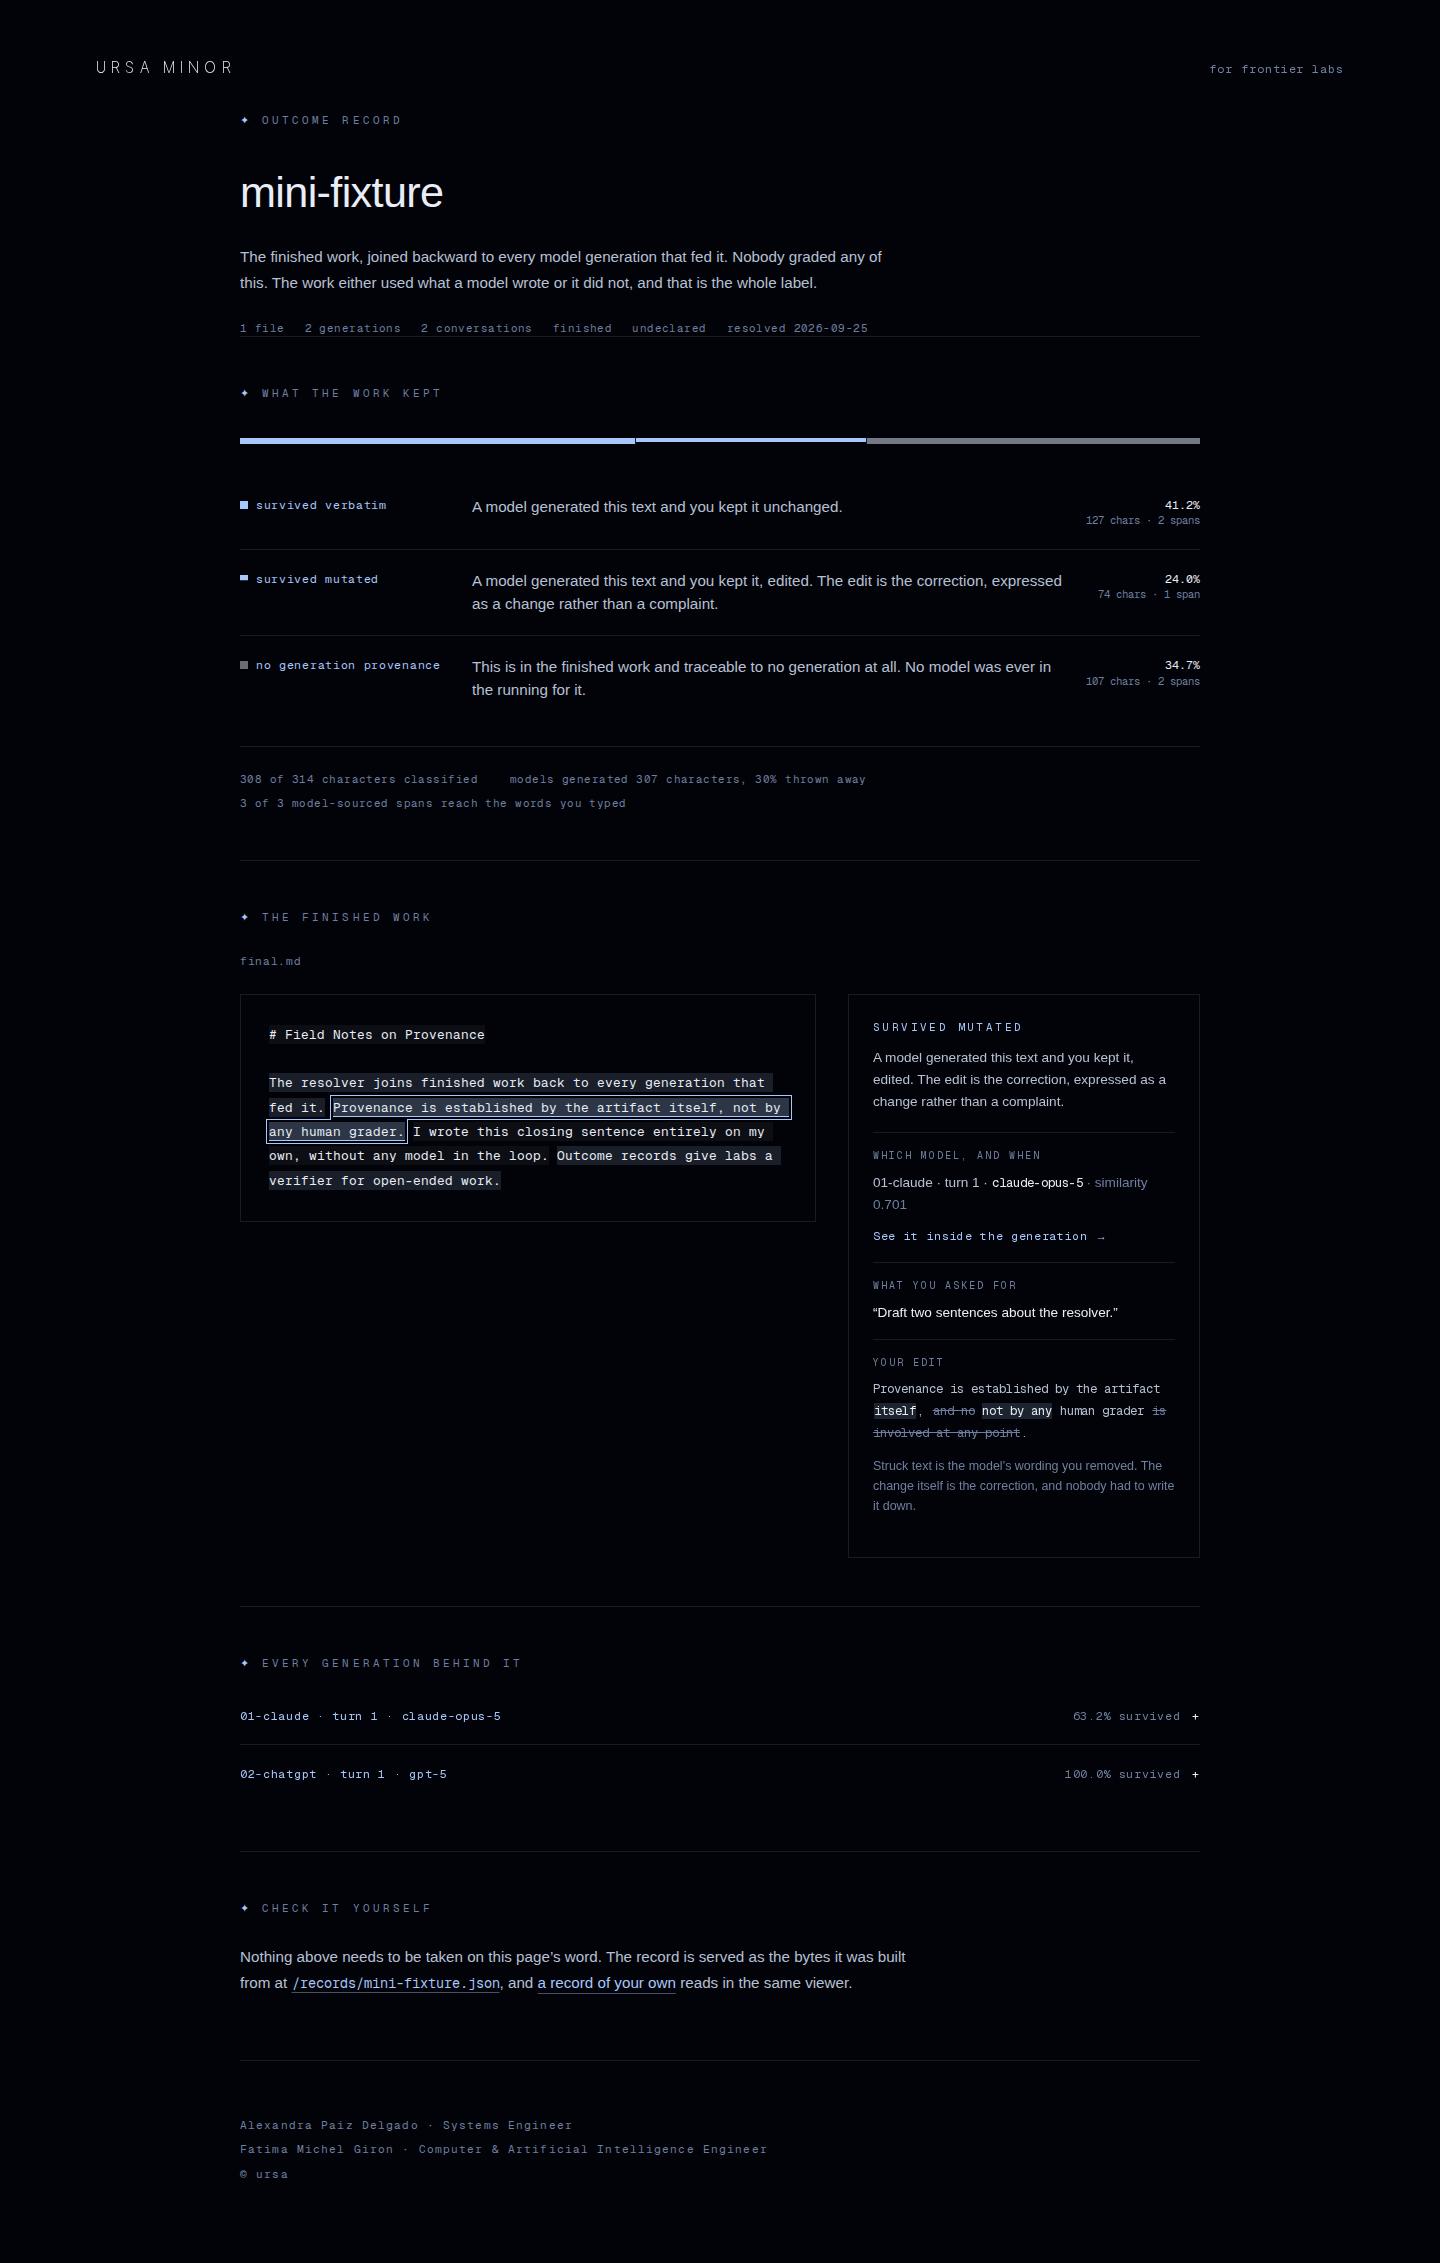
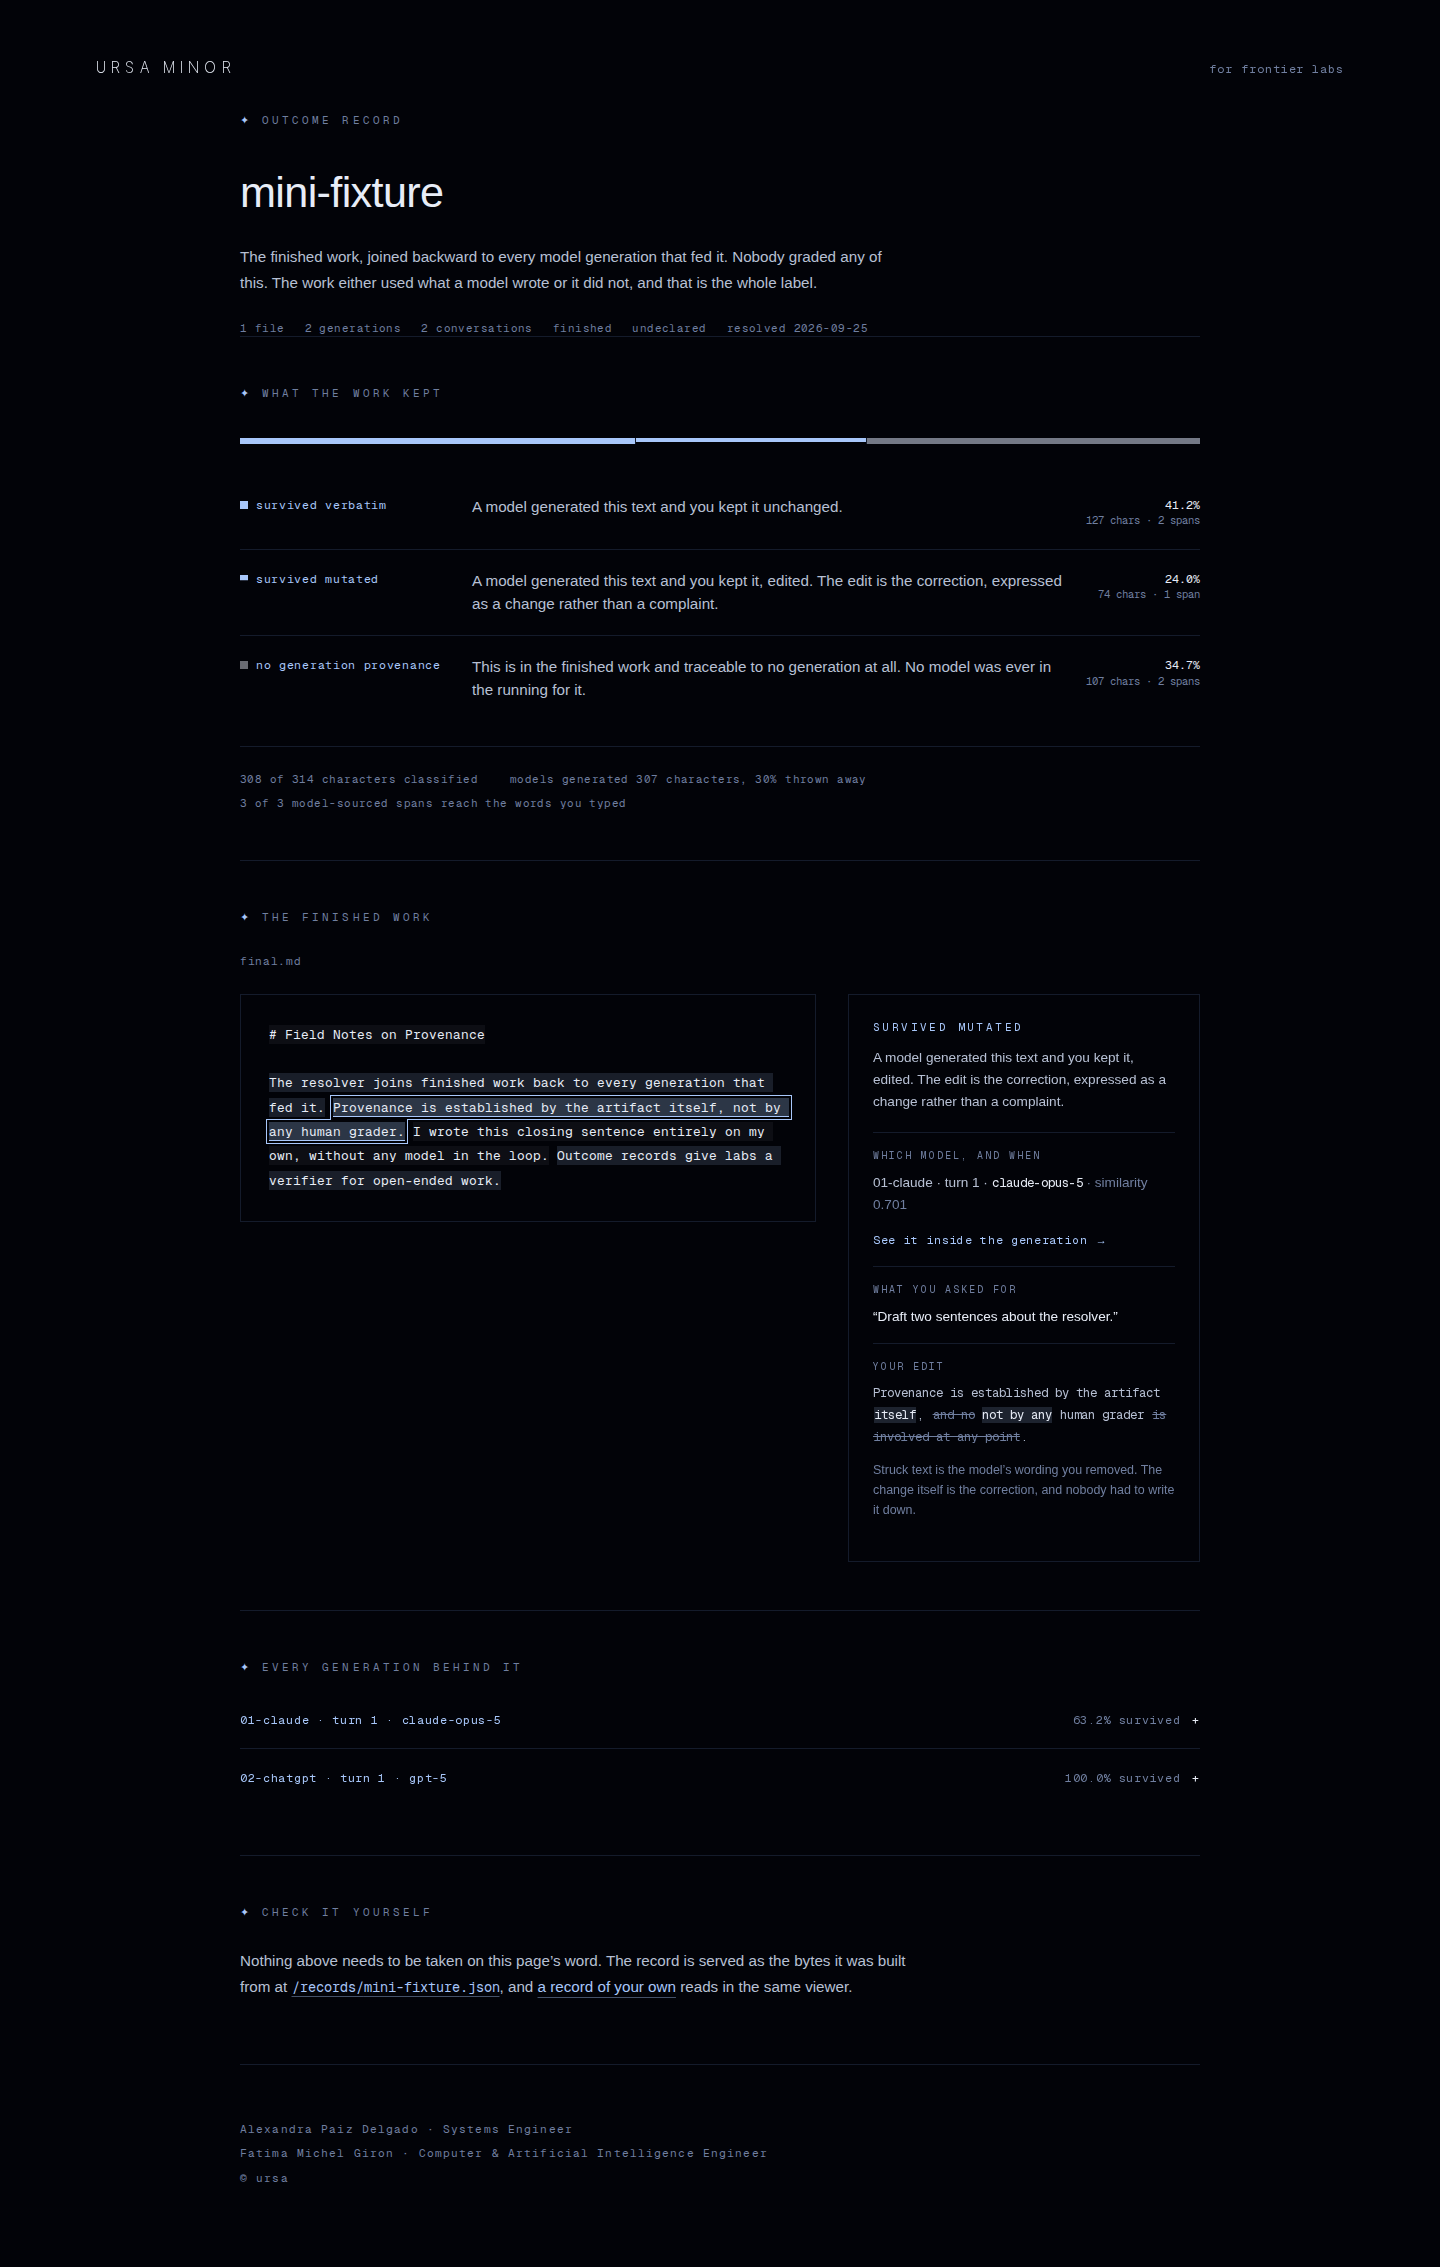
frontend 2026-11-09: the one control on this site that was never in frame
`button.rec-action "See it inside the generation →"` is the inspector's only
control and the only standalone `.rec-action` on the site without `.rec-hit`.
Its drawn box is 18px against the 44px floor: measured SHORT by 26 at all
three viewports, `data/hit-areas-selected.txt`.

The interesting part is why six hit-area sweeps were clean over it. The
inspector only renders once a passage is selected, the selection lives in
React state and is in no address, and nothing in the kit had ever driven the
viewer into that state. So every sweep measured a page from which this
control was absent, and reported a floor met over a denominator that did not
contain it. The control was not missed; it was out of frame. The same gap
covers the whole panel: the inspector was photographed once, at desktop only,
on 2026-10-18, and never measured by any instrument.

`data/state-span-selected.mjs` is the drive, and it asserts rather than hopes,
because a click that lands on nothing leaves a perfectly reasonable page to
photograph.

`rec-hit` plus `mt-4`, which is the remedy the 44px floor block in globals.css
already prescribes for the three form buttons: the overlay reaches 13px past
the box and a 12px gap does not hold it off the line above.
`data/jump-clearance.txt` reads the real rects at all three viewports: overlay
44px, clearance 6.71px above and 2.96px below, no intersection.

After: 0 short of 12 standalone, over the same 12 and the same 33 targets
seen, so the tool did not stop looking.
[…]

diff --git a/ursa-minor/components/record/record-inspector.tsx b/ursa-minor/components/record/record-inspector.tsx
@@ -65,10 +65,25 @@ export function RecordInspector({
             {typeof span.score === "number" ? (
               <span className="text-[var(--dim)]"> · similarity {span.score.toFixed(3)}</span>
             ) : null}
+            {/* `rec-hit` and a 16px gap above it, which every other standalone
+                `.rec-action` on this site has carried since 2026-10-24 and
+                this one did not. Its drawn box is 18px tall against the 44px
+                floor, measured SHORT by 26 at all three viewports.
+
+                Why it survived six hit-area sweeps: this panel only exists
+                once a passage is selected, and nothing had ever driven the
+                viewer into that state to measure it. The control was not
+                missed, it was out of frame. See
+                reviews/2026-11-09-message-x/data/hit-areas-selected.txt.
+
+                `mt-4` rather than `mt-3` for the reason the 44px floor block
+                in globals.css gives for the three form buttons: the overlay
+                reaches 13px past the box, and a 12px gap does not hold it off
+                the line above. 16px clears it by 3. */}
             <button
               type="button"
               onClick={() => onJump(src.generationIndex, { start: src.start, end: src.end })}
-              className="rec-action mt-3 block font-mono text-[0.7rem] tracking-[0.06em] text-[var(--polar)]"
+              className="rec-action rec-hit mt-4 block font-mono text-[0.7rem] tracking-[0.06em] text-[var(--polar)]"
             >
               See it inside the generation →
             </button>
